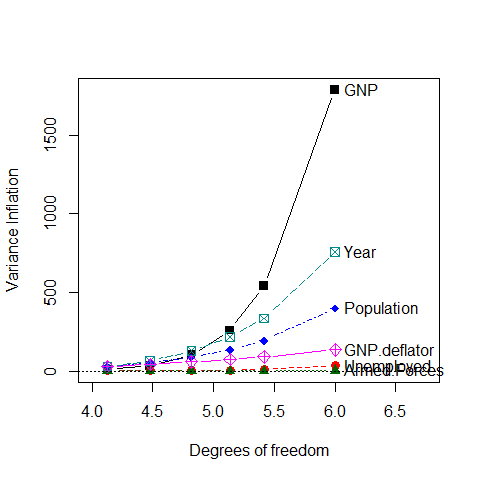
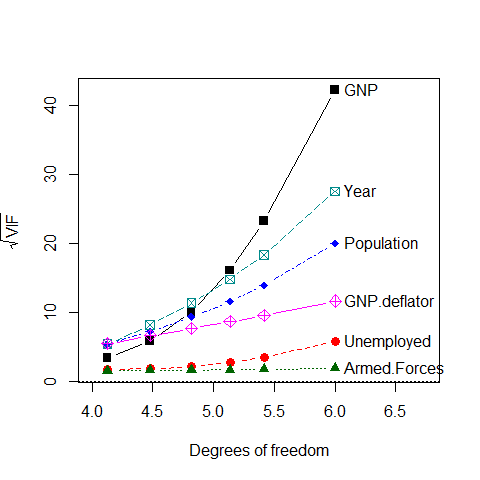
bump pkg version; prepare for CRAN

diff --git a/docs/index.html b/docs/index.html
@@ -126,6 +126,8 @@
 <code><a href="reference/plot3d.html">plot3d.ridge()</a></code>: 3D ridge trace plots with ellipsoids</li>
 <li>
 <code><a href="reference/plot.precision.html">plot.precision()</a></code>: Plots a measure of precsion vs. one of shrinkage</li>
+<li>
+<code><a href="reference/vif.ridge.html">plot.vif.ridge()</a></code>: Plots variance inflation factors</li>
 </ul>
 <p>In addition, the <code><a href="reference/pca.html">pca()</a></code> method for <code>"ridge"</code> objects transforms the coefficients and covariance matrices of a ridge object from predictor space to the equivalent, but more interesting space of the PCA of <math display="inline" xmlns="http://www.w3.org/1998/Math/MathML"><semantics><mrow><msup><mi>X</mi><mi>⊤</mi></msup><mi>X</mi></mrow><annotation encoding="application/x-tex">X^\top X</annotation></semantics></math> or the SVD of <math display="inline" xmlns="http://www.w3.org/1998/Math/MathML"><semantics><mi>X</mi><annotation encoding="application/x-tex">X</annotation></semantics></math>. The main plotting functions also work for these objects, of class <code>c("ridge", "pcaridge")</code>.</p>
 <ul>
@@ -202,7 +204,8 @@
 </annotation></semantics></math> where “others” represents all other predictors except <math display="inline" xmlns="http://www.w3.org/1998/Math/MathML"><semantics><msub><mi>X</mi><mi>i</mi></msub><annotation encoding="application/x-tex">X_i</annotation></semantics></math>.</p>
 <p><code>vif()</code> for a <code>"ridge"</code> object calculates variance inflation factors for all values of the ridge constant. You can see that for OLS, nearly all VIF values are dangerously high. With a ridge factor of 0.04 or greater, variance inflation has been considerably reduced for a few of the predictors.</p>
 <div class="sourceCode" id="cb3"><pre class="downlit sourceCode r">
-<code class="sourceCode R"><span><span class="fu">vif</span><span class="op">(</span><span class="va">lridge</span><span class="op">)</span></span>
+<code class="sourceCode R"><span><span class="va">vridge</span> <span class="op">&lt;-</span> <span class="fu">vif</span><span class="op">(</span><span class="va">lridge</span><span class="op">)</span></span>
+<span><span class="va">vridge</span></span>
 <span><span class="co">#&gt; Variance inflaction factors:</span></span>
 <span><span class="co">#&gt;            GNP  Unemployed  Armed.Forces  Population    Year  GNP.deflator</span></span>
 <span><span class="co">#&gt; 0.000  1788.51      33.619         3.589      399.15  758.98        135.53</span></span>
@@ -211,17 +214,25 @@
 <span><span class="co">#&gt; 0.020   101.12       4.573         2.578       87.29  128.82         58.94</span></span>
 <span><span class="co">#&gt; 0.040    34.43       3.422         2.441       52.22   66.31         43.56</span></span>
 <span><span class="co">#&gt; 0.080    11.28       2.994         2.301       28.59   28.82         29.52</span></span></code></pre></div>
+<p><code>vif()</code> returns a <code>"vif.ridge"</code> object for which there is a plot method:</p>
+<div class="sourceCode" id="cb4"><pre class="downlit sourceCode r">
+<code class="sourceCode R"><span><span class="va">clr</span> <span class="op">&lt;-</span>  <span class="fu"><a href="https://rdrr.io/r/base/c.html" class="external-link">c</a></span><span class="op">(</span><span class="st">"black"</span>, <span class="st">"red"</span>, <span class="st">"darkgreen"</span>,<span class="st">"blue"</span>, <span class="st">"cyan4"</span>, <span class="st">"magenta"</span><span class="op">)</span></span>
+<span><span class="va">pch</span> <span class="op">&lt;-</span> <span class="fu"><a href="https://rdrr.io/r/base/c.html" class="external-link">c</a></span><span class="op">(</span><span class="fl">15</span><span class="op">:</span><span class="fl">18</span>, <span class="fl">7</span>, <span class="fl">9</span><span class="op">)</span></span>
+<span><span class="fu"><a href="https://rdrr.io/r/graphics/plot.default.html" class="external-link">plot</a></span><span class="op">(</span><span class="va">vridge</span>, X <span class="op">=</span> <span class="st">"df"</span>, Y<span class="op">=</span><span class="st">"sqrt"</span>,</span>
+<span>     col<span class="op">=</span><span class="va">clr</span>, pch<span class="op">=</span><span class="va">pch</span>, cex <span class="op">=</span> <span class="fl">1.2</span>,</span>
+<span>     xlim <span class="op">=</span> <span class="fu"><a href="https://rdrr.io/r/base/c.html" class="external-link">c</a></span><span class="op">(</span><span class="fl">4</span>, <span class="fl">6.5</span><span class="op">)</span><span class="op">)</span></span></code></pre></div>
+<p><img src="reference/figures/README-plot-vif-1.png"><!-- --></p>
 </div>
 <div class="section level3">
 <h3 id="univariate-trace-plots">Univariate trace plots<a class="anchor" aria-label="anchor" href="#univariate-trace-plots"></a>
 </h3>
 <p>A standard, univariate, <code><a href="reference/traceplot.html">traceplot()</a></code> simply plots the estimated coefficients for each predictor against the shrinkage factor, <math display="inline" xmlns="http://www.w3.org/1998/Math/MathML"><semantics><mi>λ</mi><annotation encoding="application/x-tex">\lambda</annotation></semantics></math>.</p>
-<div class="sourceCode" id="cb4"><pre class="downlit sourceCode r">
+<div class="sourceCode" id="cb5"><pre class="downlit sourceCode r">
 <code class="sourceCode R"><span><span class="fu"><a href="reference/traceplot.html">traceplot</a></span><span class="op">(</span><span class="va">lridge</span>, xlim <span class="op">=</span> <span class="fu"><a href="https://rdrr.io/r/base/c.html" class="external-link">c</a></span><span class="op">(</span><span class="op">-</span><span class="fl">0.02</span>, <span class="fl">0.08</span><span class="op">)</span><span class="op">)</span></span></code></pre></div>
 <figure><img src="reference/figures/README-longley-tp1-1.png" alt="Univariate ridge trace plot for the coefficients of predictors of Employment in Longley’s data via ridge regression, with ridge constants k = 0, 0.005, 0.01, 0.02, 0.04, 0.08."><figcaption aria-hidden="true">
 Univariate ridge trace plot for the coefficients of predictors of Employment in Longley’s data via ridge regression, with ridge constants k = 0, 0.005, 0.01, 0.02, 0.04, 0.08.
 </figcaption></figure><p>The dotted lines show choices for the ridge constant by two commonly used criteria to balance bias against precision due to <strong>HKB</strong>: Hoerl, Kennard, and Baldwin (1975) and <strong>LW</strong>: Lawless and Wang (1976). These values (along with a generalized cross-validation value GCV) are also stored in the <code>"ridge"</code> object,</p>
-<div class="sourceCode" id="cb5"><pre class="downlit sourceCode r">
+<div class="sourceCode" id="cb6"><pre class="downlit sourceCode r">
 <code class="sourceCode R"><span><span class="fu"><a href="https://rdrr.io/r/base/c.html" class="external-link">c</a></span><span class="op">(</span>HKB<span class="op">=</span><span class="va">lridge</span><span class="op">$</span><span class="va">kHKB</span>, LW<span class="op">=</span><span class="va">lridge</span><span class="op">$</span><span class="va">kLW</span>, GCV<span class="op">=</span><span class="va">lridge</span><span class="op">$</span><span class="va">kGCV</span><span class="op">)</span></span>
 <span><span class="co">#&gt;      HKB       LW      GCV </span></span>
 <span><span class="co">#&gt; 0.004275 0.032295 0.005000</span></span>
@@ -233,7 +244,7 @@ Univariate ridge trace plot for the coefficients of predictors of Employment in 
 <h3 id="alternative-plot">Alternative plot<a class="anchor" aria-label="anchor" href="#alternative-plot"></a>
 </h3>
 <p>It is sometimes easier to interpret the plot when coefficients are plotted against the equivalent degrees of freedom, where <math display="inline" xmlns="http://www.w3.org/1998/Math/MathML"><semantics><mrow><mi>λ</mi><mo>=</mo><mn>0</mn></mrow><annotation encoding="application/x-tex">\lambda = 0</annotation></semantics></math> corresponds to 6 degrees of freedom in the parameter space of six predictors. Note that the values of <math display="inline" xmlns="http://www.w3.org/1998/Math/MathML"><semantics><mi>λ</mi><annotation encoding="application/x-tex">\lambda</annotation></semantics></math> chosen here were approximately chosen on a log scale. Using the scaling <code>X="df"</code> here makes the points more nearly equally spaced.</p>
-<div class="sourceCode" id="cb6"><pre class="downlit sourceCode r">
+<div class="sourceCode" id="cb7"><pre class="downlit sourceCode r">
 <code class="sourceCode R"><span><span class="fu"><a href="reference/traceplot.html">traceplot</a></span><span class="op">(</span><span class="va">lridge</span>, X<span class="op">=</span><span class="st">"df"</span>, xlim <span class="op">=</span> <span class="fu"><a href="https://rdrr.io/r/base/c.html" class="external-link">c</a></span><span class="op">(</span><span class="fl">4</span>, <span class="fl">6.5</span><span class="op">)</span><span class="op">)</span></span></code></pre></div>
 <figure><img src="reference/figures/README-longley-tp2-1.png" alt="Univariate ridge trace plot of coefficients against effective degrees of freedom."><figcaption aria-hidden="true">
 Univariate ridge trace plot of coefficients against effective degrees of freedom.
@@ -243,7 +254,7 @@ Univariate ridge trace plot of coefficients against effective degrees of freedom
 <h3 id="bivariate-trace-plots">Bivariate trace plots<a class="anchor" aria-label="anchor" href="#bivariate-trace-plots"></a>
 </h3>
 <p>The bivariate analog of the trace plot suggested by Friendly (2013) plots <strong>bivariate confidence ellipses</strong> for pairs of coefficients. Their centers, <math display="inline" xmlns="http://www.w3.org/1998/Math/MathML"><semantics><mrow><mo stretchy="true" form="prefix">(</mo><msub><mover><mi>β</mi><mo accent="true">̂</mo></mover><mi>i</mi></msub><mo>,</mo><msub><mover><mi>β</mi><mo accent="true">̂</mo></mover><mi>j</mi></msub><mo stretchy="true" form="postfix">)</mo></mrow><annotation encoding="application/x-tex">(\widehat{\beta}_i, \widehat{\beta}_j)</annotation></semantics></math> show the estimated coefficients, and their size and shape indicate sampling variance, <math display="inline" xmlns="http://www.w3.org/1998/Math/MathML"><semantics><mrow><mover><mtext mathvariant="normal">Var</mtext><mo accent="true">̂</mo></mover><mrow><mo stretchy="true" form="prefix">(</mo><msub><mover><mi>𝛃</mi><mo accent="true">̂</mo></mover><mrow><mi>i</mi><mi>j</mi></mrow></msub><mo stretchy="true" form="postfix">)</mo></mrow></mrow><annotation encoding="application/x-tex">\widehat{\text{Var}} (\mathbf{\widehat{\beta}}_{ij})</annotation></semantics></math>. Here, we plot those for <code>GNP</code> against four of the other predictors.</p>
-<div class="sourceCode" id="cb7"><pre class="downlit sourceCode r">
+<div class="sourceCode" id="cb8"><pre class="downlit sourceCode r">
 <code class="sourceCode R"><span><span class="va">op</span> <span class="op">&lt;-</span> <span class="fu"><a href="https://rdrr.io/r/graphics/par.html" class="external-link">par</a></span><span class="op">(</span>mfrow<span class="op">=</span><span class="fu"><a href="https://rdrr.io/r/base/c.html" class="external-link">c</a></span><span class="op">(</span><span class="fl">2</span>,<span class="fl">2</span><span class="op">)</span>, mar<span class="op">=</span><span class="fu"><a href="https://rdrr.io/r/base/c.html" class="external-link">c</a></span><span class="op">(</span><span class="fl">4</span>, <span class="fl">4</span>, <span class="fl">1</span>, <span class="fl">1</span><span class="op">)</span><span class="op">+</span> <span class="fl">0.1</span><span class="op">)</span></span>
 <span><span class="va">clr</span> <span class="op">&lt;-</span>  <span class="fu"><a href="https://rdrr.io/r/base/c.html" class="external-link">c</a></span><span class="op">(</span><span class="st">"black"</span>, <span class="st">"red"</span>, <span class="st">"darkgreen"</span>,<span class="st">"blue"</span>, <span class="st">"cyan4"</span>, <span class="st">"magenta"</span><span class="op">)</span></span>
 <span><span class="va">pch</span> <span class="op">&lt;-</span> <span class="fu"><a href="https://rdrr.io/r/base/c.html" class="external-link">c</a></span><span class="op">(</span><span class="fl">15</span><span class="op">:</span><span class="fl">18</span>, <span class="fl">7</span>, <span class="fl">9</span><span class="op">)</span></span>
@@ -265,7 +276,7 @@ Bivariate ridge trace plots for the coefficients of four predictors against the 
 </div>
 <p>As can be seen, the coefficients for each pair of predictors trace a path generally in toward the origin <math display="inline" xmlns="http://www.w3.org/1998/Math/MathML"><semantics><mrow><mo stretchy="true" form="prefix">(</mo><mn>0</mn><mo>,</mo><mn>0</mn><mo stretchy="true" form="postfix">)</mo></mrow><annotation encoding="application/x-tex">(0, 0)</annotation></semantics></math>, and the covariance ellipses get smaller, indicating increased precision.</p>
 <p>The <code><a href="https://rdrr.io/r/graphics/pairs.html" class="external-link">pairs()</a></code> method for <code>"ridge"</code> objects shows all pairwise views in scatterplot matrix form.</p>
-<div class="sourceCode" id="cb8"><pre class="downlit sourceCode r">
+<div class="sourceCode" id="cb9"><pre class="downlit sourceCode r">
 <code class="sourceCode R"><span><span class="fu"><a href="https://rdrr.io/r/graphics/pairs.html" class="external-link">pairs</a></span><span class="op">(</span><span class="va">lridge</span>, radius<span class="op">=</span><span class="fl">0.5</span>, diag.cex <span class="op">=</span> <span class="fl">2</span>, </span>
 <span>      fill <span class="op">=</span> <span class="cn">TRUE</span>, fill.alpha <span class="op">=</span> <span class="fl">0.1</span><span class="op">)</span></span></code></pre></div>
 <div class="figure">
@@ -279,7 +290,7 @@ Scatterplot matrix of bivariate ridge trace plots
 <h3 id="visualizing-the-bias-variance-tradeoff">Visualizing the bias-variance tradeoff<a class="anchor" aria-label="anchor" href="#visualizing-the-bias-variance-tradeoff"></a>
 </h3>
 <p>The function <code><a href="reference/precision.html">precision()</a></code> calculates a number of measures of the effect of shrinkage of the coefficients on the estimated sampling variance. Larger shrinkage <math display="inline" xmlns="http://www.w3.org/1998/Math/MathML"><semantics><mi>λ</mi><annotation encoding="application/x-tex">\lambda</annotation></semantics></math> should lead to smaller <math display="inline" xmlns="http://www.w3.org/1998/Math/MathML"><semantics><mrow><mover><mtext mathvariant="normal">Var</mtext><mo accent="true">̂</mo></mover><mrow><mo stretchy="true" form="prefix">(</mo><mover><mi>𝛃</mi><mo accent="true">̂</mo></mover><mo stretchy="true" form="postfix">)</mo></mrow></mrow><annotation encoding="application/x-tex">\widehat{\text{Var}} (\mathbf{\widehat{\beta}})</annotation></semantics></math>, indicating increased precision. See: <code><a href="reference/precision.html">help(precision)</a></code> for details.</p>
-<div class="sourceCode" id="cb9"><pre class="downlit sourceCode r">
+<div class="sourceCode" id="cb10"><pre class="downlit sourceCode r">
 <code class="sourceCode R"><span><span class="fu"><a href="reference/precision.html">precision</a></span><span class="op">(</span><span class="va">lridge</span><span class="op">)</span></span>
 <span><span class="co">#&gt;       lambda    df    det   trace max.eig norm.beta norm.diff</span></span>
 <span><span class="co">#&gt; 0.000  0.000 6.000 -12.93 18.1190 15.4191    1.0000     0.000</span></span>
@@ -289,7 +300,7 @@ Scatterplot matrix of bivariate ridge trace plots
 <span><span class="co">#&gt; 0.040  0.040 4.478 -18.70  1.1647  0.5808    0.4233     2.679</span></span>
 <span><span class="co">#&gt; 0.080  0.080 4.128 -21.05  0.5873  0.2599    0.3373     3.027</span></span></code></pre></div>
 <p><code>norm.beta</code> <math display="inline" xmlns="http://www.w3.org/1998/Math/MathML"><semantics><mrow><mo>=</mo><mo stretchy="false" form="prefix">∥</mo><mi>𝛃</mi><mo stretchy="false" form="postfix">∥</mo><mi>/</mi><mo>max</mo><mrow><mo stretchy="false" form="prefix">∥</mo><mi>𝛃</mi><mo stretchy="false" form="postfix">∥</mo></mrow></mrow><annotation encoding="application/x-tex">= \lVert\mathbf{\beta}\rVert / \max{\lVert\mathbf{\beta}\rVert}</annotation></semantics></math> is a measure of shrinkage, and <code>det</code> <math display="inline" xmlns="http://www.w3.org/1998/Math/MathML"><semantics><mrow><mo>=</mo><mo>log</mo><mrow><mo stretchy="true" form="prefix">|</mo><mtext mathvariant="normal">Var</mtext><mrow><mo stretchy="true" form="prefix">(</mo><mi>𝛃</mi><mo stretchy="true" form="postfix">)</mo></mrow><mo stretchy="true" form="postfix">|</mo></mrow></mrow><annotation encoding="application/x-tex">= \log{| \text{Var}(\mathbf{\beta}) |}</annotation></semantics></math>, is a measure of variance of the coefficients (inverse of precision). Plotting these against each other gives a direct view of the tradeoff between bias and precision.</p>
-<div class="sourceCode" id="cb10"><pre class="downlit sourceCode r">
+<div class="sourceCode" id="cb11"><pre class="downlit sourceCode r">
 <code class="sourceCode R"><span><span class="va">pridge</span> <span class="op">&lt;-</span> <span class="fu"><a href="reference/precision.html">precision</a></span><span class="op">(</span><span class="va">lridge</span><span class="op">)</span></span>
 <span><span class="va">op</span> <span class="op">&lt;-</span> <span class="fu"><a href="https://rdrr.io/r/graphics/par.html" class="external-link">par</a></span><span class="op">(</span>mar<span class="op">=</span><span class="fu"><a href="https://rdrr.io/r/base/c.html" class="external-link">c</a></span><span class="op">(</span><span class="fl">4</span>, <span class="fl">4</span>, <span class="fl">1</span>, <span class="fl">1</span><span class="op">)</span> <span class="op">+</span> <span class="fl">0.2</span><span class="op">)</span></span>
 <span><span class="kw"><a href="https://rdrr.io/r/base/library.html" class="external-link">library</a></span><span class="op">(</span><span class="va">splines</span><span class="op">)</span></span>
@@ -311,7 +322,7 @@ Scatterplot matrix of bivariate ridge trace plots
 Plot of log(Variance) vs. shrinkage to show the tradeoff between bias and variance.
 </figcaption></figure><p>These plots are now provided in the <code><a href="https://rdrr.io/r/graphics/plot.default.html" class="external-link">plot()</a></code> method for (class <code>"precision"</code>) objects returned by <code><a href="reference/precision.html">precision()</a></code>. This plots the measure <code>norm.beta</code> on the horizontal axis vs. any of the variance measures <code>det</code>, <code>trace</code>, or <code>max.eig</code>, and labels the points with either <code>k</code> or <code>df</code>. See <code><a href="reference/precision.html">help("precision")</a></code> for the definitions of these variance measures.</p>
 <p>A plot similar to that above can be produced as shown below, but here labeling the points with effective degrees of freedom. The shape of the curve is quite similar.</p>
-<div class="sourceCode" id="cb11"><pre class="downlit sourceCode r">
+<div class="sourceCode" id="cb12"><pre class="downlit sourceCode r">
 <code class="sourceCode R"><span><span class="fu"><a href="https://rdrr.io/r/graphics/plot.default.html" class="external-link">plot</a></span><span class="op">(</span><span class="va">pridge</span>, labels <span class="op">=</span> <span class="st">"df"</span>, label.prefix<span class="op">=</span><span class="st">"df:"</span>, criteria <span class="op">=</span> <span class="va">criteria</span><span class="op">)</span></span></code></pre></div>
 <figure><img src="reference/figures/README-precision-plot2-1.png" alt="Plot of det(Variance) vs. shrinkage (norm.beta) to show the tradeoff between bias and variance using the plot() method for 'precision' objects. Points are labeled with the effective degrees of freedom."><figcaption aria-hidden="true">
 Plot of det(Variance) vs. shrinkage (<code>norm.beta</code>) to show the tradeoff between bias and variance using the <code><a href="https://rdrr.io/r/graphics/plot.default.html" class="external-link">plot()</a></code> method for <code>‘precision’</code> objects. Points are labeled with the effective degrees of freedom.
@@ -323,7 +334,7 @@ Plot of det(Variance) vs. shrinkage (<code>norm.beta</code>) to show the tradeo
 </h2>
 <p>Just as principal components analysis gives low-dimensional views of a data set, PCA can be useful to understand ridge regression.</p>
 <p>The <code>pca</code> method transforms a <code>"ridge"</code> object from parameter space, where the estimated coefficients are <math display="inline" xmlns="http://www.w3.org/1998/Math/MathML"><semantics><msub><mi>β</mi><mi>k</mi></msub><annotation encoding="application/x-tex">\beta_k</annotation></semantics></math> with covariance matrices <math display="inline" xmlns="http://www.w3.org/1998/Math/MathML"><semantics><msub><mi>Σ</mi><mi>k</mi></msub><annotation encoding="application/x-tex">\Sigma_k</annotation></semantics></math>, to the principal component space defined by the right singular vectors, <math display="inline" xmlns="http://www.w3.org/1998/Math/MathML"><semantics><mi>V</mi><annotation encoding="application/x-tex">V</annotation></semantics></math>, of the singular value decomposition of the scaled predictor matrix, <math display="inline" xmlns="http://www.w3.org/1998/Math/MathML"><semantics><mi>X</mi><annotation encoding="application/x-tex">X</annotation></semantics></math>.</p>
-<div class="sourceCode" id="cb12"><pre class="downlit sourceCode r">
+<div class="sourceCode" id="cb13"><pre class="downlit sourceCode r">
 <code class="sourceCode R"><span><span class="va">plridge</span> <span class="op">&lt;-</span> <span class="fu"><a href="reference/pca.html">pca</a></span><span class="op">(</span><span class="va">lridge</span><span class="op">)</span></span>
 <span><span class="va">plridge</span></span>
 <span><span class="co">#&gt; Ridge Coefficients:</span></span>
@@ -338,11 +349,11 @@ Plot of det(Variance) vs. shrinkage (<code>norm.beta</code>) to show the tradeo
 <p><img src="reference/figures/README-pca-traceplot-1.png"><!-- --></p>
 <p>What is perhaps surprising is that the coefficients for the first 4 components are not shrunk at all. Rather, the effect of shrinkage is seen only on the <em>last two dimensions</em>. These are the directions that contribute most to collinearity, for which other visualization methods have been proposed (Friendly &amp; Kwan 2009).</p>
 <p>The <code><a href="https://rdrr.io/r/graphics/pairs.html" class="external-link">pairs()</a></code> plot illustrates the <em>joint</em> effects: the principal components of <math display="inline" xmlns="http://www.w3.org/1998/Math/MathML"><semantics><mi>𝐗</mi><annotation encoding="application/x-tex">\mathbf{X}</annotation></semantics></math> are uncorrelated, so the ellipses are all aligned with the coordinate axes and the ellipses largely coincide for dimensions 1 to 4:</p>
-<div class="sourceCode" id="cb13"><pre class="downlit sourceCode r">
+<div class="sourceCode" id="cb14"><pre class="downlit sourceCode r">
 <code class="sourceCode R"><span><span class="fu"><a href="https://rdrr.io/r/graphics/pairs.html" class="external-link">pairs</a></span><span class="op">(</span><span class="va">plridge</span><span class="op">)</span></span></code></pre></div>
 <p><img src="reference/figures/README-pca-pairs-1.png" width="80%"></p>
 <p>If we focus on the plot of dimensions <code>5:6</code>, we can see where all the shrinkage action is in this representation. Generally, the predictors that are related to the smallest dimension (6) are shrunk quickly at first.</p>
-<div class="sourceCode" id="cb14"><pre class="downlit sourceCode r">
+<div class="sourceCode" id="cb15"><pre class="downlit sourceCode r">
 <code class="sourceCode R"><span><span class="fu"><a href="https://rdrr.io/r/graphics/plot.default.html" class="external-link">plot</a></span><span class="op">(</span><span class="va">plridge</span>, variables<span class="op">=</span><span class="fl">5</span><span class="op">:</span><span class="fl">6</span>, fill <span class="op">=</span> <span class="cn">TRUE</span>, fill.alpha<span class="op">=</span><span class="fl">0.2</span><span class="op">)</span></span>
 <span><span class="fu"><a href="https://rdrr.io/r/graphics/text.html" class="external-link">text</a></span><span class="op">(</span><span class="va">plridge</span><span class="op">$</span><span class="va">coef</span><span class="op">[</span>, <span class="fl">5</span><span class="op">:</span><span class="fl">6</span><span class="op">]</span>, </span>
 <span>       label <span class="op">=</span> <span class="va">lambdaf</span>, </span>
@@ -354,7 +365,7 @@ Plot of det(Variance) vs. shrinkage (<code>norm.beta</code>) to show the tradeo
 <p>Finally, we can project the <em>predictor variables</em> into the PCA space of the <em>smallest dimensions</em>, where the shrinkage action mostly occurs to see how the predictor variables relate to these dimensions.</p>
 <p><code><a href="reference/biplot.pcaridge.html">biplot.pcaridge()</a></code> supplements the standard display of the covariance ellipsoids for a ridge regression problem in PCA/SVD space with labeled arrows showing the contributions of the original variables to the dimensions plotted. The length of the arrows reflects proportion of variance that each predictors shares with the components.</p>
 <p>The biplot view showing the dimensions corresponding to the two smallest singular values is particularly useful for understanding how the predictors contribute to shrinkage in ridge regression. Here, <code>Year</code> and <code>Population</code> largely contribute to <code>dim 5</code>; a contrast between (<code>Year</code>, <code>Population</code>) and <code>GNP</code> contributes to <code>dim 6</code>.</p>
-<div class="sourceCode" id="cb15"><pre class="downlit sourceCode r">
+<div class="sourceCode" id="cb16"><pre class="downlit sourceCode r">
 <code class="sourceCode R"><span><span class="va">op</span> <span class="op">&lt;-</span> <span class="fu"><a href="https://rdrr.io/r/graphics/par.html" class="external-link">par</a></span><span class="op">(</span>mar<span class="op">=</span><span class="fu"><a href="https://rdrr.io/r/base/c.html" class="external-link">c</a></span><span class="op">(</span><span class="fl">4</span>, <span class="fl">4</span>, <span class="fl">1</span>, <span class="fl">1</span><span class="op">)</span> <span class="op">+</span> <span class="fl">0.2</span><span class="op">)</span></span>
 <span><span class="fu"><a href="https://rdrr.io/r/stats/biplot.html" class="external-link">biplot</a></span><span class="op">(</span><span class="va">plridge</span>, radius<span class="op">=</span><span class="fl">0.5</span>, </span>
 <span>       ref<span class="op">=</span><span class="cn">FALSE</span>, asp<span class="op">=</span><span class="fl">1</span>, </span>
@@ -370,7 +381,7 @@ Plot of det(Variance) vs. shrinkage (<code>norm.beta</code>) to show the tradeo
 <h2 id="other-examples">Other examples<a class="anchor" aria-label="anchor" href="#other-examples"></a>
 </h2>
 <p>The genridge package contains four data sets, each with its own examples; e.g., you can try <code>example(Acetylene)</code>.</p>
-<div class="sourceCode" id="cb16"><pre class="downlit sourceCode r">
+<div class="sourceCode" id="cb17"><pre class="downlit sourceCode r">
 <code class="sourceCode R"><span><span class="fu">vcdExtra</span><span class="fu">::</span><span class="fu"><a href="http://friendly.github.io/vcdExtra/reference/datasets.html" class="external-link">datasets</a></span><span class="op">(</span>package<span class="op">=</span><span class="st">"genridge"</span><span class="op">)</span></span>
 <span><span class="co">#&gt;        Item      class    dim                               Title</span></span>
 <span><span class="co">#&gt; 1 Acetylene data.frame   16x4                      Acetylene Data</span></span>

diff --git a/cran-comments.md b/cran-comments.md
@@ -1,6 +1,6 @@
 ## Test environments
 * local Windows10 install, R version 4.4.1 (2024-06-14 ucrt)
-* win-builder R Under development (unstable) (2024-11-11 r87319 ucrt)
+* win-builder R Under development (unstable) (2024-11-30 r87409 ucrt)
 
 ## R CMD check results
 There were no ERRORs or WARNINGS or NOTEs
@@ -9,14 +9,16 @@ There were no ERRORs or WARNINGS or NOTEs
 There are no reverse dependencies
 
 ## Comments
-This was modest update release, improving documentation and adding new functionality.
+### genridge 0.8.0 (2024-11-30)
 
+This is a major update to the package adding additional plotting methods
 
-### genridge 0.7.1 (2024-11-07)
-
-o Added links to gentalk.pdf
-o Improved README and fixed some examples
-o `precision()` result gains a class "precision" in preparation for a plot method
-o Implemented `plot.precision()` for plots shrinkage vs. variance, using various criteria
-o Fixed warning from `ridge()` related to contrasts
-o `ridge()` now collects the optimal `criteria` in a named list, which can be added in `plot.precision()`
+o Fleshed out and installed `plot.precision()`
+o Illustrate `plot.precision()` in `README.Rmd`
+o Added `diab` data, diabetes from CASI
+o Fixed documentation for `plot.ridge()` so that `plot.pcaridge()` is documented explicitly.
+o 'vif.ridge()` now returns a "vif.ridge" object list to prepare for a plot method.
+o Added `plot.vif.ridge()` to plot VIFs vs shrinkage
+o Added `norm.diff` = sqrt((b_OLS - b_ridge)^2) as a measure of shrinkage to `precision()`
+o Added `plot.precision()` for plots of shrinkage vs. precision
+o Added `best()` to display the optimal shrinkage criteria

diff --git a/NEWS.md b/NEWS.md
@@ -1,4 +1,6 @@
-## genridge 0.7.2 (2024-11-15)
+## genridge 0.8.0 (2024-11-30)
+
+This is a major update to the package adding additional plotting methods
 
 o Fleshed out and installed `plot.precision()`
 o Illustrate `plot.precision()` in `README.Rmd`

diff --git a/README.md b/README.md
@@ -16,7 +16,7 @@
 
 <!-- Version 0.7.1 -->
 
-Version 0.7.2
+Version 0.8.0
 
 ### What is ridge regression?
 
